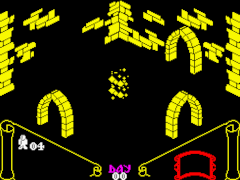
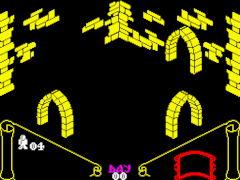
added jumping

Changed region(s): [[0.4375, 0.3611, 0.5542, 0.5556]]

diff --git a/knightlore/knightlore.py b/knightlore/knightlore.py
@@ -15,7 +15,7 @@ buttons = {
            "CENTER":4
 }
 WIDTH = HEIGHT = 240
-
+# zx spectrum colors
 BLACK = (0,0,0)
 BLUE = (0,0,255)
 RED = (255,0,0)
@@ -26,11 +26,12 @@ CYAN = (0,255,255)
 WHITE = (255,255,255)
 colors = (BLACK,BLUE,RED,MAGENTA,CYAN,YELLOW,WHITE)
 
-
 class spriteobj:
     color = WHITE
     flip = 0
     x = y = 0
+    jumping = 0
+    height = 0
     xdir = ydir = 0.5
     time = grabbed = 0
     img = [0,0]
@@ -51,17 +52,19 @@ def blitsprite (spritesheet,sprite,mirror = 0):
      r,g,b = sprite.color
 
      isox, isoy = iso2screen(sprite.x,sprite.y)
+     isoy -= sprite.height
      image = getsprite(spritesheet,sprite.img[0],sprite.img[1],sprite.w,sprite.h)
      image.fill((r,g,b,255), special_flags=pygame.BLEND_RGBA_MIN)
      screen.blit(pygame.transform.flip(image,mirror,False),(isox,isoy),(0,0,sprite.w,sprite.h))
     
+def pressed(btn) :
+    return ( GPIO.input(buttons[btn]) != True) 
+
 # initialize
 # setup gpio
 GPIO.setmode(GPIO.BCM)         
 for btn in buttons:
     GPIO.setup(buttons[btn], GPIO.IN)
-def pressed(btn) :
-    return ( GPIO.input(buttons[btn]) != True) 
 
 screen = pygame.display.set_mode()
 pygame.mouse.set_visible(False) 
@@ -77,12 +80,11 @@ man = 0
 def update () :
     global firing,wolf,man
     
-    if (pressed("A")) : firing  = 1
-    else : firing = 0
+    if (pressed("A") and sabreman.jumping == 0 ):
+       sabreman.jumping = 30
     
-    if (pressed("A")) : man = 65 - man
-    
-    wolfimg = 64
+    # change to a wolf
+    #if (wolf) : man += 64
     
     speed = 0.05
     if (pressed("DOWN")):
@@ -102,7 +104,7 @@ def update () :
         sabreman.img[1] = man # facing away
         sabreman.xdir -= speed
   
-    # keep on screen / wrap left/right
+    # keep on 8x8 grid
     if (sabreman.x < 0) : sabreman.x = 0 ; sabreman.xdir = 0
     if (sabreman.x > 8) : sabreman.x = 8 ; sabreman.xdir = 0
     if (sabreman.y < 0) : sabreman.y = 0 ; sabreman.ydir = 0
@@ -115,6 +117,13 @@ def update () :
     sabreman.ydir *= 0.7
 
     stopped =  speed  / 2 
+
+    if (sabreman.jumping > 0) :
+        sabreman.jumping -= 1
+        if (sabreman.jumping > 15):  sabreman.height = 30 - sabreman.jumping  
+        if (sabreman.jumping < 15): sabreman.height = sabreman.jumping
+    else: sabreman.height = 0
+        
     if (abs(sabreman.xdir) > stopped or abs(sabreman.ydir) > stopped) : ## walking
         frame = sabreman.img[0]
         if frame < 100 : frame += 24
